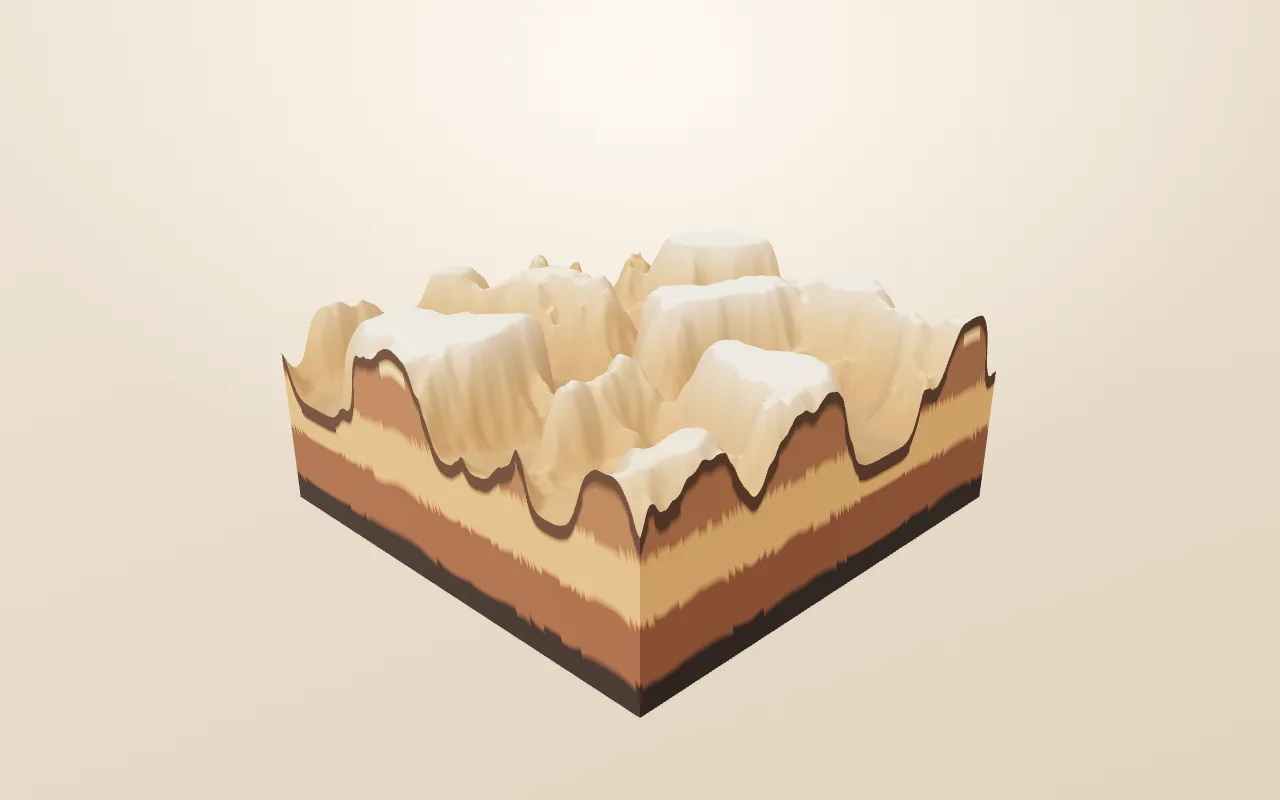
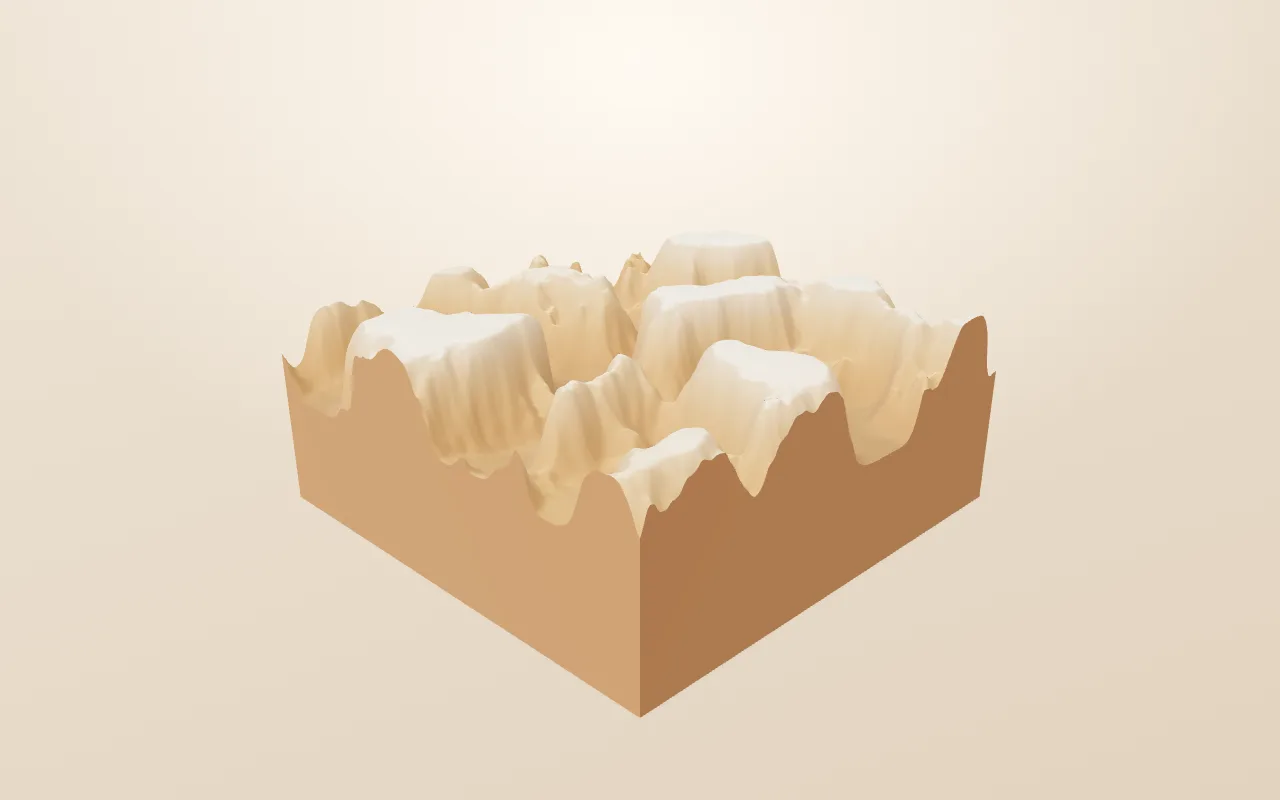
showcase: use a solid cut-face color
Remove stepped side strata and the topsoil band from the dioramas, use one solid side color per palette, recapture previews as version 3, and validate uniform side colors.

Changed region(s): [[0.2188, 0.4375, 0.7812, 0.9062], [0.75, 0.375, 0.7812, 0.4375], [0.25, 0.4375, 0.3125, 0.4688]]

diff --git a/site/src/terrain/palette.ts b/site/src/terrain/palette.ts
@@ -6,11 +6,9 @@ export interface Palette {
   id: PaletteId;
   label: string;
   top: readonly { at: number; rgb: Rgb }[];
-  rock: readonly Rgb[];
   slope: Rgb;
-  topsoil: Rgb;
+  side: Rgb;
   bottom: Rgb;
-  topsoilThickness: number;
 }
 
 function srgbToLinear(channel: number): number {
@@ -38,20 +36,17 @@ function palette(
   id: PaletteId,
   label: string,
   top: readonly string[],
-  rock: readonly string[],
   slope: string,
-  topsoil: string,
+  side: string,
   bottom: string,
 ): Palette {
   return {
     id,
     label,
     top: ramp(top),
-    rock: ramp(rock).map((entry) => entry.rgb),
     slope: hexToLinear(slope),
-    topsoil: hexToLinear(topsoil),
+    side: hexToLinear(side),
     bottom: hexToLinear(bottom),
-    topsoilThickness: 0.03,
   };
 }
 
@@ -60,36 +55,32 @@ const PALETTES: Record<PaletteId, Palette> = {
     "temperate",
     "Temperate",
     ["#3f5a3a", "#5a6f45", "#728a52", "#8f9a68", "#a89a7c", "#bdb3a1", "#efebe4"],
-    ["#2b241e", "#6b4a32", "#a8754a", "#5a4636", "#c29a68"],
     "#7a7064",
-    "#3f2e21",
+    "#7a6048",
     "#241f1a",
   ),
   arid: palette(
     "arid",
     "Arid",
     ["#8f6b45", "#b98a55", "#d0a26b", "#dfbd8d", "#f0e0c4"],
-    ["#2f2118", "#7a4a2e", "#c08a52", "#8a5a3a", "#e0b478"],
     "#9a6b45",
-    "#4f3523",
+    "#9a6b45",
     "#2f2118",
   ),
   volcanic: palette(
     "volcanic",
     "Volcanic",
     ["#2f2b28", "#4a3e35", "#6b5543", "#8a6a4a", "#b89a6a"],
-    ["#151311", "#4a3a2e", "#7a5a40", "#3a3028", "#9a6a45"],
     "#4a403a",
-    "#241d18",
+    "#3f3832",
     "#151311",
   ),
   arctic: palette(
     "arctic",
     "Arctic",
     ["#4a5f6a", "#6f8288", "#9aa8ab", "#c8d0d0", "#f4f6f5"],
-    ["#202629", "#4e585c", "#8b969a", "#5a666a", "#c0cacc"],
     "#6f7a7e",
-    "#384246",
+    "#5a666a",
     "#202629",
   ),
 };
@@ -146,28 +137,6 @@ export function topColor(
   const base = sampleRamp(config.top, height);
   const rockMix = smoothstep(1.4, 3.8, slope) * 0.55;
   return mix(base, config.slope, rockMix);
-}
-
-/** Cut-face color: topsoil near the surface, stepped rock bands below. */
-export function strataColor(
-  config: Palette,
-  absoluteY: number,
-  baseY: number,
-  topY: number,
-  depthBelowTop: number,
-): Rgb {
-  if (depthBelowTop <= config.topsoilThickness) {
-    return [...config.topsoil];
-  }
-
-  const t = clamp01((absoluteY - baseY) / Math.max(1e-6, topY - baseY));
-  const bands = config.rock.length;
-  const stepped = bands <= 1 ? 0.5 : Math.round(t * (bands - 1)) / (bands - 1);
-  const index = Math.min(
-    config.rock.length - 1,
-    Math.max(0, Math.round(stepped * (config.rock.length - 1))),
-  );
-  return [...config.rock[index]!];
 }
 
 export function bottomColor(config: Palette): Rgb {

diff --git a/site/src/terrain/geometry.ts b/site/src/terrain/geometry.ts
@@ -2,7 +2,6 @@ import type { Heightmap } from "../demos/types.js";
 import {
   bottomColor,
   getPalette,
-  strataColor,
   topColor,
   type PaletteId,
 } from "./palette.js";
@@ -174,22 +173,8 @@ export function buildDiorama(
       const t = row / SHELL_ROWS;
       const yLeft = yA + (baseY - yA) * t;
       const yRight = yB + (baseY - yB) * t;
-      const leftColor = strataColor(
-        palette,
-        yLeft,
-        baseY,
-        topMax,
-        yA - yLeft,
-      );
-      const rightColor = strataColor(
-        palette,
-        yRight,
-        baseY,
-        topMax,
-        yB - yRight,
-      );
-      pushVertex(xA, yLeft, zA, leftColor);
-      pushVertex(xB, yRight, zB, rightColor);
+      pushVertex(xA, yLeft, zA, palette.side);
+      pushVertex(xB, yRight, zB, palette.side);
     }
 
     for (let row = 0; row < SHELL_ROWS; row += 1) {

diff --git a/tests/showcase-catalog.test.ts b/tests/showcase-catalog.test.ts
@@ -131,6 +131,14 @@ describe("showcase diorama geometry", () => {
         expect(Number.isFinite(value)).toBe(true);
       }
 
+      const side = getPalette(demo.meta.palette).side;
+      const sideVertexCount = geometry.shell.positions.length / 3 - 4;
+      for (let vertex = 0; vertex < sideVertexCount; vertex += 1) {
+        expect(geometry.shell.colors[vertex * 3]).toBeCloseTo(side[0], 6);
+        expect(geometry.shell.colors[vertex * 3 + 1]).toBeCloseTo(side[1], 6);
+        expect(geometry.shell.colors[vertex * 3 + 2]).toBeCloseTo(side[2], 6);
+      }
+
       let topMin = Infinity;
       let topMax = -Infinity;
       for (let index = 1; index < geometry.top.positions.length; index += 3) {

diff --git a/tests/showcase-previews.test.ts b/tests/showcase-previews.test.ts
@@ -37,7 +37,7 @@ describe("showcase previews", () => {
   });
 
   it("records the expected capture contract", () => {
-    expect(manifest.previewVersion).toBe(2);
+    expect(manifest.previewVersion).toBe(3);
     expect(manifest.viewport).toEqual({
       width: 640,
       height: 400,

diff --git a/openspec/changes/add-terrain-showcase/design.md b/openspec/changes/add-terrain-showcase/design.md
@@ -150,18 +150,16 @@ The block:
   normalized elevation and local slope.
 - **Shell**: four boundary walls, each a quad strip from the top boundary down
   to a flat base plane. Vertices are duplicated per wall so the cut faces stay
-  hard-edged. The walls are vertically subdivided at the strata boundaries.
+  hard-edged. The walls are vertically subdivided for smooth shading.
 - **Bottom**: a two-triangle cap at the base plane, dark.
 - **Base depth**: 0.22 of the tile width below the lowest top vertex, so the
-  block has visible mass. Stratum bands are absolute Y ranges; a thin topsoil
-  band follows the top boundary just below the surface.
-- **Strata**: at least four bands per side (topsoil, two or three rock layers,
-  dark base rock). A deterministic per-vertex color jitter keeps the bands from
-  looking like flat paint without requiring textures.
+  block has visible mass.
+- **Side color**: one solid cut-face color per palette; no topsoil or rock
+  bands.
 
 Top and shell are separate meshes/materials: the top uses smooth normals and a
-terrain palette; the shell uses flat shading and a geological palette derived
-from the same family. The viewport groups them, frames the union's bounding
+terrain palette; the shell uses flat shading and a single cut-face color derived
+from the same palette. The viewport groups them, frames the union's bounding
 sphere with a margin, and limits the orbit polar angle so the camera cannot go
 below the block. A shadow catcher plane sits at the bottom, with the directional
 key light casting a soft shadow.
@@ -170,11 +168,12 @@ Why a solid block instead of a displaced plane: the finite heightmap tile needs
 an intentional edge; a cut block reads as a specimen and matches the libfive
 gallery language. Why not marching cubes or an adaptive surface: the source is
 already a regular grid, and a grid top preserves the exact heightmap data and
-the crisp strata.
+the crisp cut edge.
 
 Palettes are code constants, no image assets: `temperate`, `arid`, `volcanic`,
-`arctic`. Each has elevation stops, slope-rock blending, and matching strata
-colors. Palette/relief tuning is art direction and does not change the spec.
+`arctic`. Each has elevation stops, slope-rock blending, and a matching solid
+cut-face color. Palette/relief tuning is art direction and does not change the
+spec.
 
 ### 5. Detail page and code view
 

diff --git a/openspec/changes/add-terrain-showcase/tasks.md b/openspec/changes/add-terrain-showcase/tasks.md
@@ -17,10 +17,11 @@
 
 ## 3. Specimen diorama and viewport
 
-- [x] 3.1 Implement pure terrain helpers for display normalization, per-demo palettes, and the diorama geometry: indexed top grid, four boundary walls with hard edges, topsoil band, at least three rock strata, flat bottom cap, and a base below the minimum height; verify a geometry test checks wall coverage, closed shell, base depth, finite positions, and expected triangle counts.
+- [x] 3.1 Implement pure terrain helpers for display normalization, per-demo palettes, and the diorama geometry: indexed top grid, four boundary walls with hard edges, one solid cut-face color, flat bottom cap, and a base below the minimum height; verify a geometry test checks wall coverage, closed shell, base depth, finite positions, uniform side colors, and expected triangle counts.
 - [x] 3.2 Implement the three.js viewport with scene, camera framing, orbit limits, resize handling, warm key light, environment/hemisphere fill, shadow catcher, and ACES tone mapping; verify every catalog entry frames fully on load and the camera cannot go below the block.
 - [x] 3.3 Wire the detail page stats (grid shape, triangle count, generation time) and the wireframe/flat view toggles; verify each toggle changes the rendered material and the stats match the built geometry and measured generation time.
-- [x] 3.4 Tune palettes and relief for all nine specimens so the topsoil, strata, and solid base read clearly at gallery and detail sizes; verify a manual visual review of all nine confirms a closed block, visible cut faces, and legible terrain relief.
+- [x] 3.4 Tune palettes and relief for all nine specimens so the solid cut faces and base read clearly at gallery and detail sizes; verify a manual visual review of all nine confirms a closed block, visible cut faces, and legible terrain relief.
+- [x] 3.5 Replace the stepped side strata and topsoil band with one solid cut-face color, recapture all previews, and verify the geometry test asserts uniform side colors.
 
 ## 4. Gallery, previews, and provenance
 

diff --git a/openspec/changes/add-terrain-showcase/specs/showcase-site/spec.md b/openspec/changes/add-terrain-showcase/specs/showcase-site/spec.md
@@ -67,16 +67,15 @@ explicitly recorded because the source example targets a larger grid.
 ### Requirement: Solid specimen diorama
 
 Each terrain SHALL render as a closed specimen block: a heightmap top surface,
-vertical cut faces that follow the terrain boundary, a distinct topsoil layer
-below the top edge, horizontal rock strata, and a flat bottom. The base MUST
-sit below the lowest terrain point and the block MUST have visible thickness
-rather than appearing as a thin plane.
+vertical cut faces that follow the terrain boundary, a single solid cut-face
+color, and a flat bottom. The base MUST sit below the lowest terrain point and
+the block MUST have visible thickness rather than appearing as a thin plane.
 
 #### Scenario: Diorama reads as a cut block
 
 - **WHEN** any catalog terrain is displayed
-- **THEN** its sides are visible below the terrain surface, showing topsoil
-  and at least three rock strata, and the underside is closed
+- **THEN** its sides are visible below the terrain surface in one uniform
+  cut-face color, and the underside is closed
 
 #### Scenario: Base stays below the terrain
 

diff --git a/openspec/changes/add-terrain-showcase/proposal.md b/openspec/changes/add-terrain-showcase/proposal.md
@@ -22,9 +22,9 @@ produced each result.
   `ex_falloff` (Euclidian), `ex_plateau`, `ex_smooth_fill`, and the first
   `hydraulic_stream` panel of `ex_hydraulic_stream`.
 - Render each terrain as a **specimen diorama**: a square block with a
-  heightmap top, vertical cut faces that follow the terrain boundary, a thin
-  topsoil band, horizontal rock strata, and a flat bottom. The base is a
-  first-class part of the presentation, not a thin plane.
+  heightmap top, vertical cut faces that follow the terrain boundary, a single
+  solid cut-face color, and a flat bottom. The base is a first-class part of
+  the presentation, not a thin plane.
 - Add a detail page with an orbitable three.js viewport, mesh statistics,
   wireframe/flat view toggles, and a code tab showing the exact TypeScript
   recipe, the source C++ example, and the panel or variant it ports.
